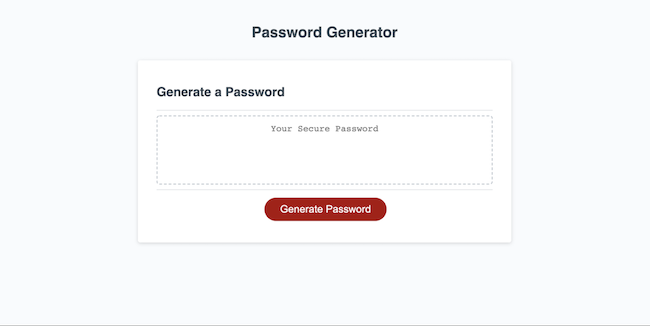
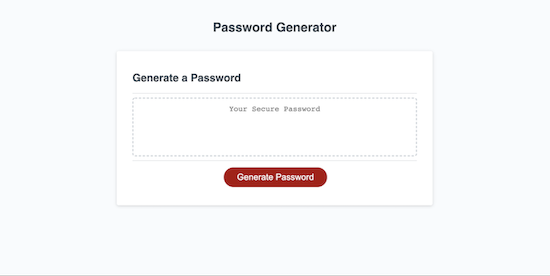
worked on sass for themes

Changed region(s): [[0.4018, 0.5797, 0.5873, 0.6667], [0.2473, 0.2609, 0.4636, 0.3188], [0.4018, 0.087, 0.6182, 0.1159]]

diff --git a/src/styles/_config.scss b/src/styles/_config.scss
@@ -1,10 +1,12 @@
-$background-img-light: url(../assets/images/light.png);
-$background-img-dark: url(../assets/images/dark.png);
+$app-bg-light: #ececec;
+$app-bg-dark: #353535;
 $background-light: #d9d9d9;
-$background-dark: #00080d;
-$text-light-mode: #00080d;
+$background-dark: #81929e;
+$text-light-mode: #284b63;
 $text-dark-mode: #d9d9d9;
-$about-border-light-mode: 5px solid #00080d;
-$about-border-dark-mode: 5px solid #d9d9d9;
-$icon-light-mode: #00080d;
-$icon-dark-mode: #d9d9d9;
+$about-border-light-mode: 5px solid #81929e;
+$about-border-dark-mode: 5px solid #353535;
+$icon-light-mode: #81929e;
+$icon-dark-mode: #353535;
+$icon-hover-light: #284b63;
+$icon-hover-dark: #d9d9d9;

diff --git a/src/styles/page.scss b/src/styles/page.scss
@@ -18,12 +18,23 @@
   width: 50%;
   align-self: center;
   h1 {
-    text-shadow: 4px 4px 4px white;
-    font-size: 75px;
+    text-shadow: 4px 4px 4px #81929e;
+    font-size: 95px;
   }
 }
 .portfolio {
   display: flex;
   flex-wrap: wrap;
   flex-direction: row;
+  justify-content: space-between;
+  .img-box {
+    margin: 50px;
+    justify-content: space-between;
+  }
+  img {
+    width: 450px;
+    height: 250px;
+    object-fit: cover;
+    padding: 20px;
+  }
 }

diff --git a/src/components/Portfolio.js b/src/components/Portfolio.js
@@ -36,9 +36,11 @@ const Portfolio = () => {
 
   return (
     <div className="portfolio">
-      {currentProjects.map((project, i) => (
-        <img src={require(`../assets/small/${i}.png`)} alt={project.name} />
-      ))}
+      <div className="img-box">
+        {currentProjects.map((project, i) => (
+          <img src={require(`../assets/small/${i}.png`)} alt={project.name} />
+        ))}
+      </div>
     </div>
   );
 };

diff --git a/src/styles/app.scss b/src/styles/app.scss
@@ -6,7 +6,7 @@
   box-sizing: border-box;
 }
 body {
-  background-image: $background-img-light;
+  background-color: $app-bg-light;
 }
 .main-content {
   height: 100vh;

diff --git a/src/styles/footer.scss b/src/styles/footer.scss
@@ -9,5 +9,6 @@
   }
   .single-icon:hover {
     font-size: 50px;
+    color: $icon-hover-light;
   }
 }
